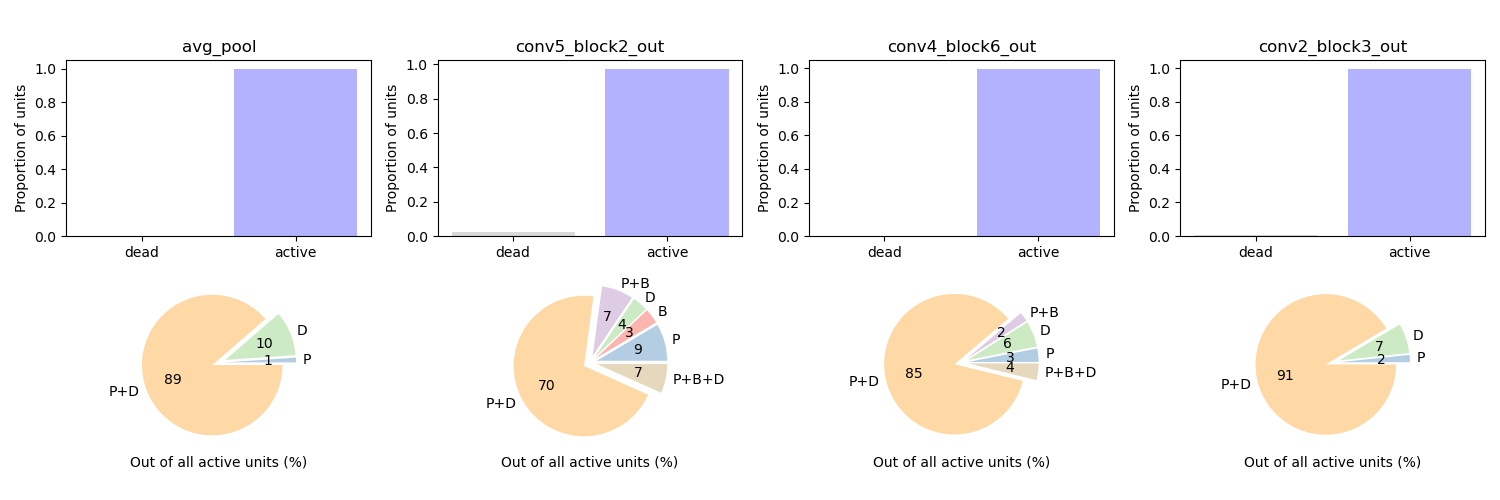
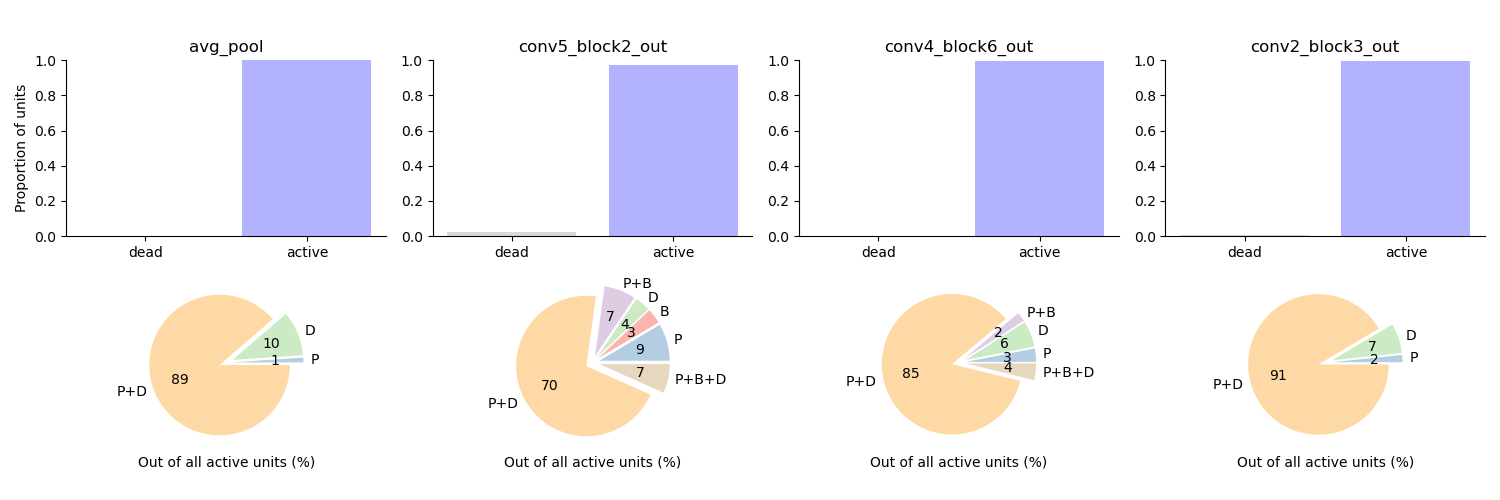
improve plotter

diff --git a/figures_paper.py b/figures_paper.py
@@ -1222,7 +1222,10 @@ def unit_chart_visualization_piechart():
                 color=['grey', 'blue'],
                 alpha=0.3,
             )
-            ax[0, col_index].set_ylabel('Proportion of units')
+            ax[0, 0].set_ylabel('Proportion of units')
+            ax[0, col_index].set_ylim([0, 1])
+            ax[0, col_index].spines.right.set_visible(False)
+            ax[0, col_index].spines.top.set_visible(False)
 
             # second subplot: piechart of different cell proportions
             n_exc_place_cells = len(exclusive_place_cells_indices)
